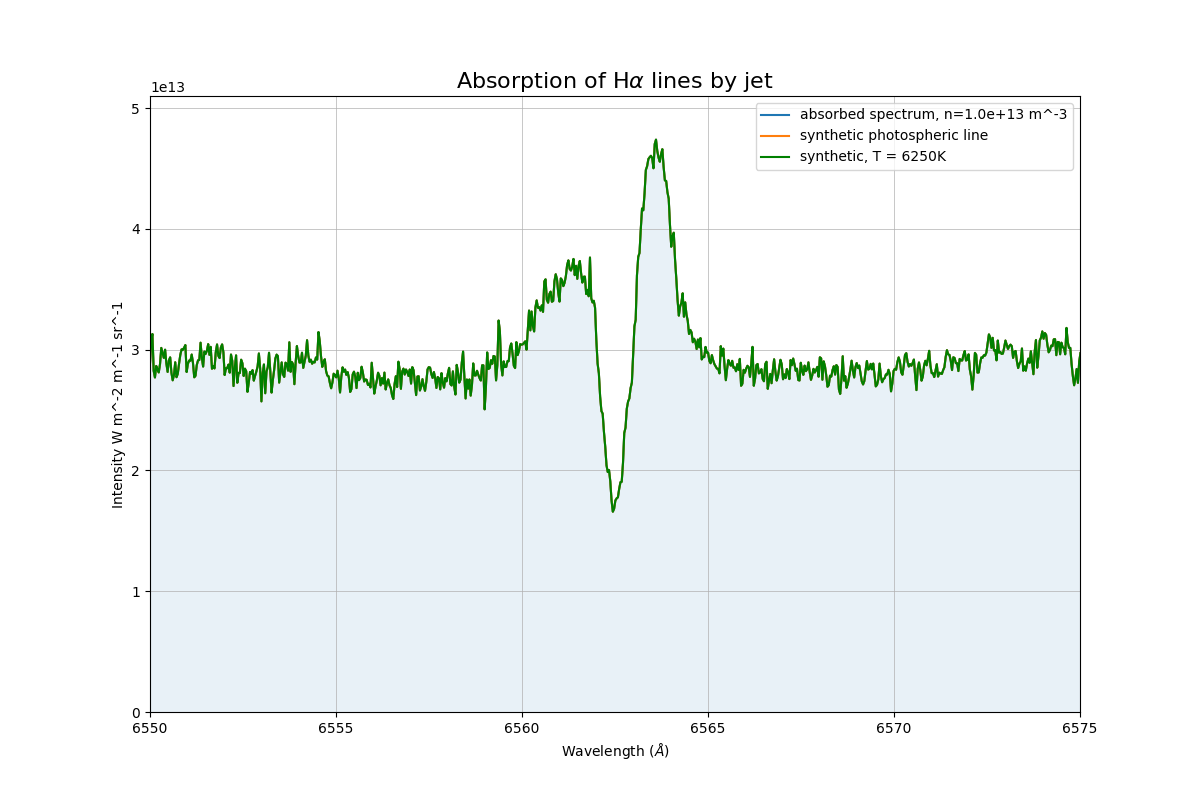
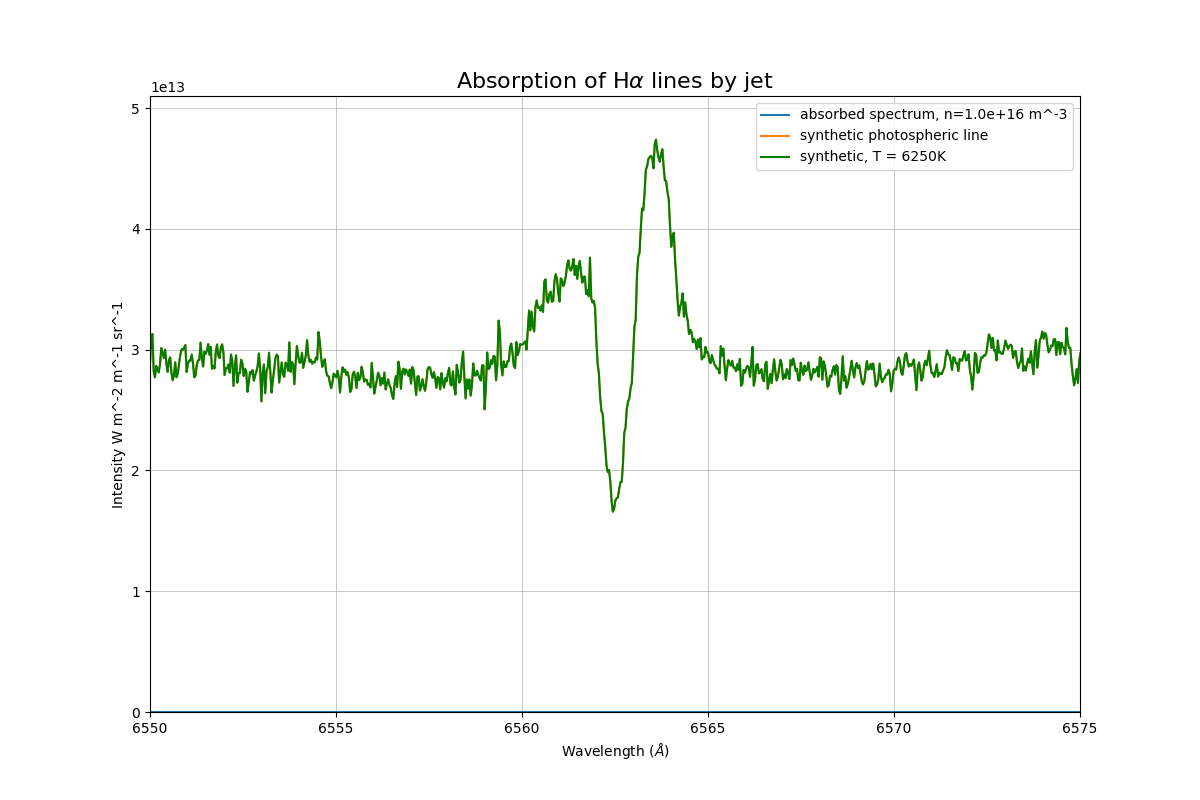
test sobolev

diff --git a/tests/main.py b/tests/main.py
@@ -245,7 +245,7 @@ jet = Cone.Stellar_jet_simple(inclination, jet_angle,
                               jet_type,
                               jet_centre=secondary_orbit[phase_test]['position'])
 jet_temperature         = 5000      # The jet temperature (K)
-jet_density_max         = 1e15      # The jet number density at its outer edge (m^-3)
+jet_density_max         = 9.99e15      # The jet number density at its outer edge (m^-3)
 
 """
 =======================================================================
@@ -262,7 +262,7 @@ for phase in phases:
         """
         print('current phase is ', phase)
         postAGB.centre = primary_orbit[phase]['position']
-        jet_centre     = secondary_orbit[phase]['position']
+        jet.jet_centre = secondary_orbit[phase]['position']
         postAGB._set_grid_location()
 
 
@@ -275,7 +275,8 @@ for phase in phases:
             jet._set_gridpoints(coordAGB, gridpoints_LOS)
 
             if jet.gridpoints is None:
-                intensity_point = list(0*spectra_background_I[phase][spectrum])
+                intensity_point = list(0.*spectra_background_I[phase][spectrum])
+                # intensity_point = list(spectra_background_I[phase][spectrum])
 
             if jet.gridpoints is not None:
 
@@ -306,10 +307,7 @@ for phase in phases:
                     jet_n_HI_1[point]    = jet_density[point] * ie.saha_boltz_E(E_ionisation_H, E_levels_H, degeneracy_H, jet_temperature, 1, 1, n=jet_n_e[point]) # HI in energy level n=1
                     jet_n_HI_2[point]    = jet_density[point] * ie.saha_boltz_E(E_ionisation_H, E_levels_H, degeneracy_H, jet_temperature, 1, 2, n=jet_n_e[point]) # HI in energy level n=2
 
-                plt.scatter(postAGB.grid_location[:,1], postAGB.grid_location[:,2])
-                plt.scatter(jet.gridpoints[:,1], jet.gridpoints[:,2])
-                plt.show()
-                # plt.plot(jet.gridpoints[:,1], jet_density/np.max(jet_densit]y), label='scaled density')
+                # plt.plot(jet.gridpoints[:,1], jet_density/np.max(jet_density), label='scaled density')
                 # plt.plot(jet.gridpoints[:,1], jet_n_HI_2/np.max(jet_n_HI_2), label='density HI_2')
                 # plt.plot(jet.gridpoints[:,1], jet_radvel_km_per_s/np.max(jet_radvel_km_per_s), label='radial velocity')
                 # plt.plot(jet.gridpoints[:,1], jet.gridpoints[:,2], label='height in jet')
@@ -322,18 +320,18 @@ for phase in phases:
                     intensity_point.append(0)
                     if wave > 6540e-10 and wave < 6580e-10:
                         frequency       = constants.c / wave
-                        delta_tau       = jet_delta_gridpoints_m \
-                                          * opacity(frequency, jet_temperature, jet_n_HI[1:], jet_n_e[1:],
-                                                    jet_n_HI_2[1:], B_lu[0],
-                                                    jet_radvel_m_per_s[1:], line=line)
                         # delta_tau       = jet_delta_gridpoints_m \
-                        #                   * opacity_sobolev(frequency, jet_temperature,
-                        #                             jet_n_HI_2[1:],
-                        #                             jet_radvel_m_per_s[1:],
-                        #                             jet_radvel_gradient[1:],
-                        #                             wavelength_bin_size,
-                        #                             gridpoints_LOS,
-                        #                             line=line)
+                        #                   * opacity(frequency, jet_temperature, jet_n_HI[1:], jet_n_e[1:],
+                        #                             jet_n_HI_2[1:], B_lu[0],
+                        #                             jet_radvel_m_per_s[1:], line=line)
+                        delta_tau       = jet_delta_gridpoints_m \
+                                          * opacity_sobolev(frequency, jet_temperature,
+                                                    jet_n_HI_2[1:],
+                                                    jet_radvel_m_per_s[1:],
+                                                    jet_radvel_gradient[1:],
+                                                    wavelength_bin_size,
+                                                    gridpoints_LOS,
+                                                    line=line)
 
                         for pointLOS in range(gridpoints_LOS-1):
                             intensity_point[wavebin] = rt_isothermal(wave, jet_temperature, intensity_point[wavebin], delta_tau[pointLOS])
